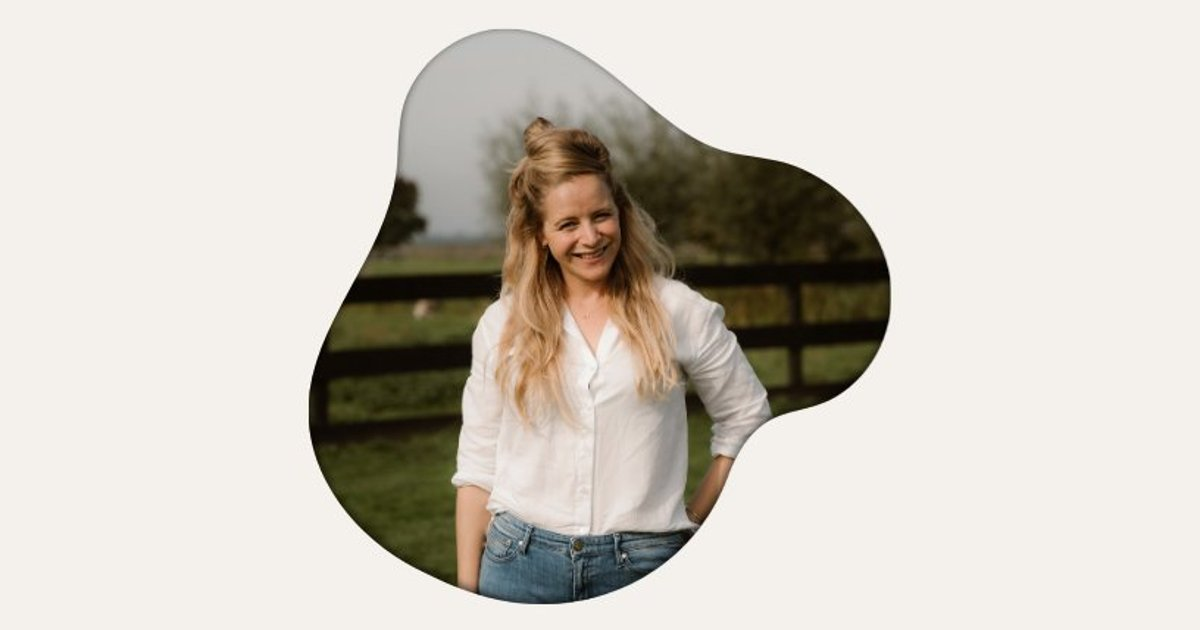
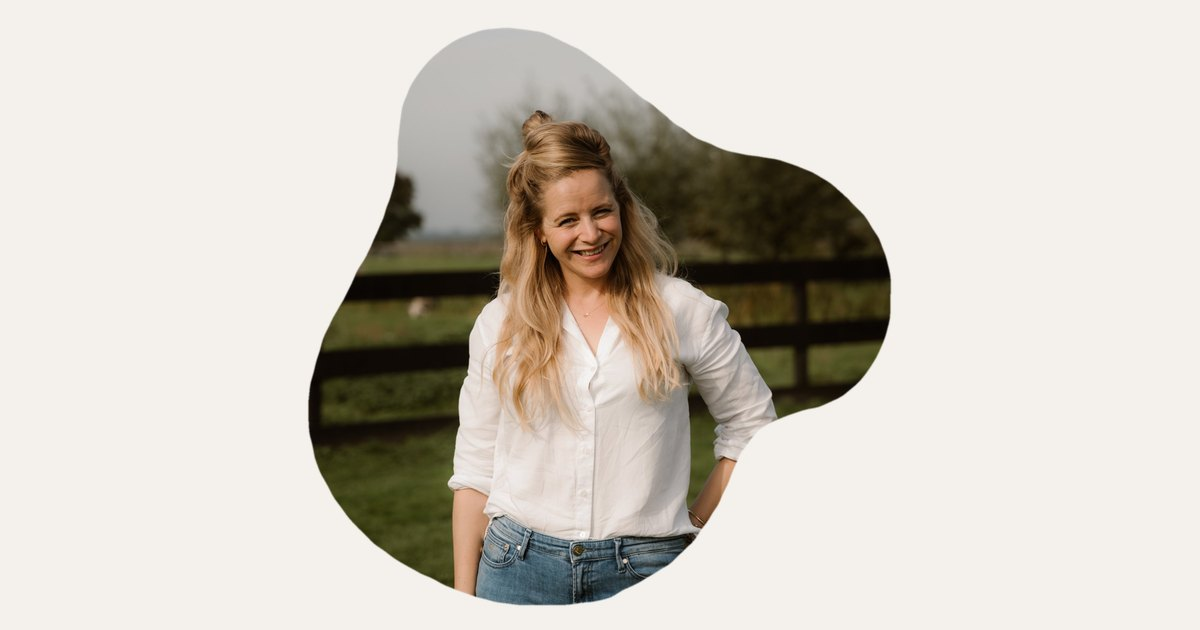
Hero: higher-resolution photo of Annemieke (800px, blob shape kept)
Claude-Session: https://claude.ai/code/session_01ERVQ5V8Lpsbss1zS3KHjAA

diff --git a/index.html b/index.html
@@ -193,7 +193,7 @@
   </nav>
   <div class="wrap">
     <div class="hero-top">
-      <img class="blob" src="/img/hero.webp" width="408" height="406" fetchpriority="high" alt="Annemieke smiling in a white blouse, standing by a wooden fence in a meadow">
+      <img class="blob" src="/img/hero.webp" width="800" height="800" fetchpriority="high" alt="Annemieke smiling in a white blouse, standing by a wooden fence in a meadow">
       <h1>What if you got curious, about what you’re not seeing yet?</h1>
     </div>
     <p>Hi, I'm Annemieke. I help you uncover what's really driving your choices, through cognitive and systemic work. We look at the patterns that may be holding you back, and find a way forward that feels right for you.</p>

diff --git a/nl/index.html b/nl/index.html
@@ -193,7 +193,7 @@
   </nav>
   <div class="wrap">
     <div class="hero-top">
-      <img class="blob" src="/img/hero.webp" width="408" height="406" fetchpriority="high" alt="Annemieke lacht in een witte blouse bij een houten hek in een weiland">
+      <img class="blob" src="/img/hero.webp" width="800" height="800" fetchpriority="high" alt="Annemieke lacht in een witte blouse bij een houten hek in een weiland">
       <h1>Wat zie jij nog niet?</h1>
     </div>
     <p>Hoi, ik ben Annemieke. Ik help je ontdekken wat je keuzes écht drijft, met cognitief en systemisch werk. We kijken naar de patronen die je misschien tegenhouden en vinden een weg vooruit die goed voelt voor jou.</p>
